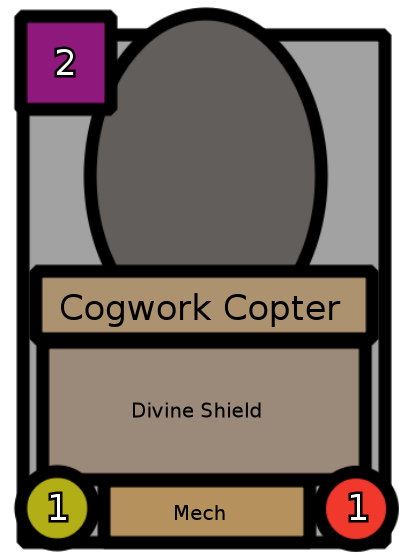
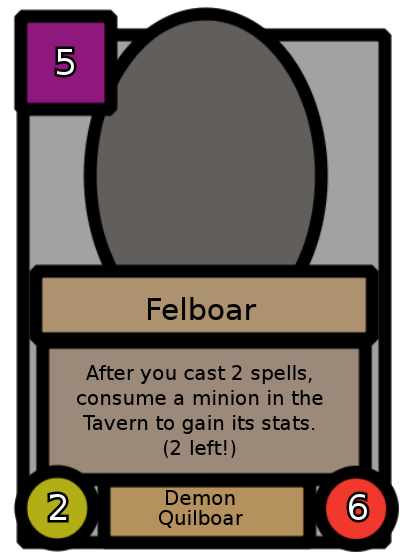
golden minion

diff --git a/server/generate/generatePhImage.js b/server/generate/generatePhImage.js
@@ -117,12 +117,14 @@ function drawCardText(ctx, text, x, y, maxWidth){
     });
 }
 
-async function generateBGsMinion(cardData) {
+async function generateBGsMinion(cardData, isGolden) {
     const canvas = createCanvas(400, 560);
     const ctx = canvas.getContext('2d');
 
+    let templatePath = isGolden ? "./generate/placeholder golden minion.png" : "./generate/placeholder minion.png";
+
     // load template
-    const template = await loadImage("./generate/placeholder minion.png");
+    const template = await loadImage(templatePath);
     ctx.drawImage(template, 0, 0, canvas.width, canvas.height);
 
     // tier
@@ -229,12 +231,12 @@ async function generateBGsTavernSpell(cardData) {
 
 // Example card data
 const minionData = {
-    name: 'Cogwork Copter',
-    tier: 2,
-    text: "Divine Shield",
-    attack: 1,
-    health: 1,
-    races: ["Mech"]
+    name: 'Felboar',
+    tier: 5,
+    text: "After you cast 2 spells, consume a minion in the Tavern to gain its stats.\n(2 left!)",
+    attack: 2,
+    health: 6,
+    races: ["Demon", "Quilboar"]
 };
 
 const hpData = {
